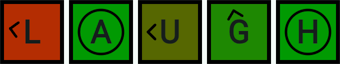
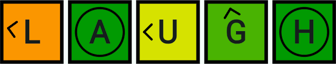
3.1.2

diff --git a/distle/lib/widgets/popups/help_popup.dart b/distle/lib/widgets/popups/help_popup.dart
@@ -55,7 +55,7 @@ class _HelpPopupState extends State<HelpPopup> {
           const Text("Distle is a daily word guessing game"),
           const SizedBox(height: 40),
           const Text(
-            "When you guess a word, each letter gets a color representing how far away that letter is from the target letter on a standard U.S. keyboard. ",
+            "When you guess a word, each letter gets a color representing how far away that letter is from the target letter on a standard QWERTY keyboard. ",
           ),
           const SizedBox(height: 40),
           Row(
@@ -122,7 +122,7 @@ class _HelpPopupState extends State<HelpPopup> {
               SizedBox(width: 10),
               Expanded(
                 child: Text(
-                  "If a letter in your guessed word is not correct, it will have an arrow pointing in the direction of the correct letter (on a standard U.S. keyboard).",
+                  "If a letter in your guessed word is not correct, it will have an arrow pointing in the direction of the correct letter (on a standard QWERTY keyboard).",
                 ),
               ),
             ],

diff --git a/distle/lib/game_state.dart b/distle/lib/game_state.dart
@@ -29,7 +29,7 @@ class GameState extends ChangeNotifier {
 
   GameState() {
     puzzleNum = _generatePuzzleNum();
-    answer = _generateAnswer(puzzleNum);
+    answer = "EARTH"; //_generateAnswer(puzzleNum);
     holiday = _getHoliday();
 
     final lastPlayed = UserData.latestPuzzlePlayed;

diff --git a/distle/lib/config/constants.dart b/distle/lib/config/constants.dart
@@ -5,7 +5,7 @@ import 'package:timezone/timezone.dart';
 
 import 'package:distle/config/data.dart';
 
-final String version = "3.1.1";
+final String version = "3.1.2";
 
 final DateTime startDate = DateTime(2026, 8, 1);
 final pacificTimeLocation = getLocation("America/Los_Angeles");

diff --git a/distle/README.md b/distle/README.md
@@ -8,6 +8,10 @@
 
 # Change Log
 
+## Version 3.1.2 (2026-08-16)
+
+- Update images in the help popup
+
 ## Version 3.1.1 (2026-08-16)
 
 - Adjust color breaks and emoki thresholds
